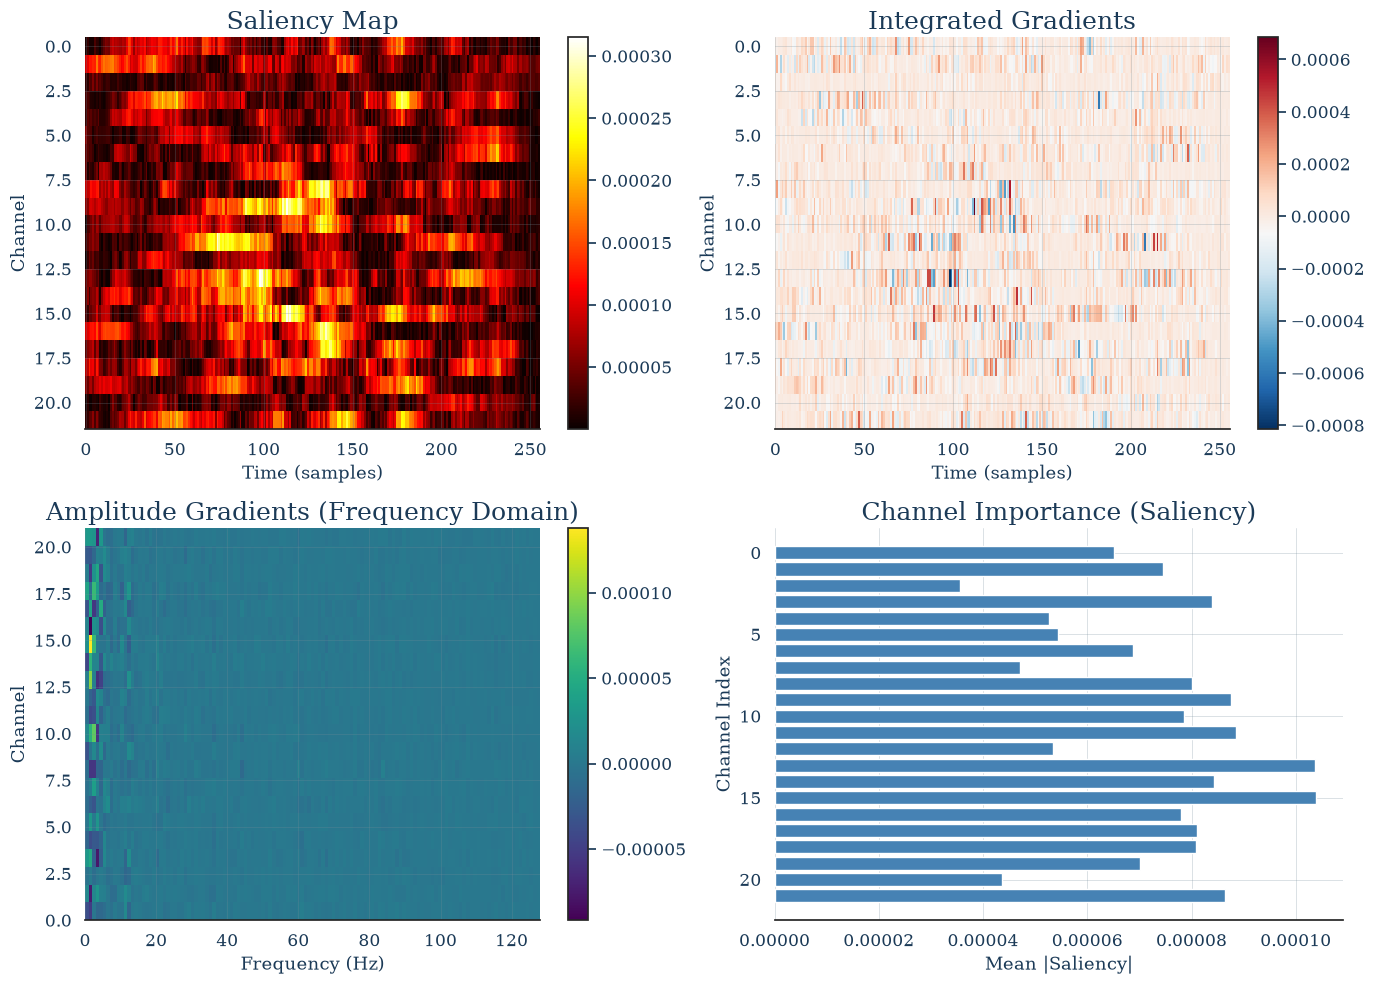
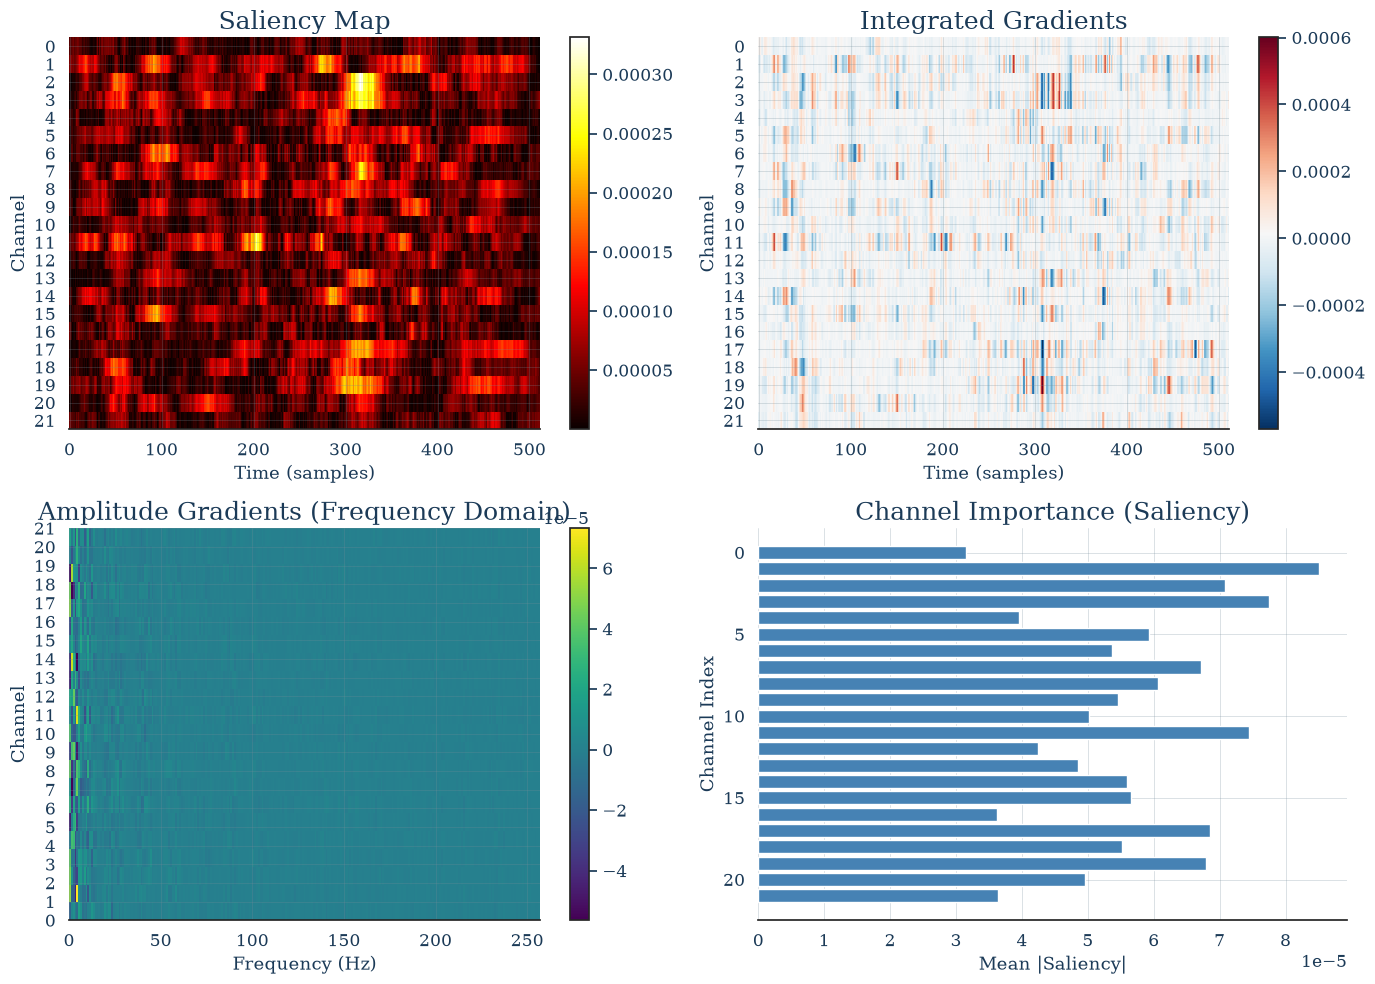
refactor(visualization): 重构训练曲线和梯度可视化代码
1. 替换手动加载历史数据为skorch History对象，简化数据提取
2. 更新可视化逻辑使用真实训练数据而非模拟数据
3. 调整绘图参数和保存配置，优化输出效果
4. 补全梯度可视化的完整数据集预处理和模型加载流程
5. 修复部分可视化细节问题，完善注释说明

diff --git a/src/braindecode_learning/05_visualization.py b/src/braindecode_learning/05_visualization.py
@@ -41,21 +41,21 @@ def tutorial_training_curves():
     print("教程 5.1: 训练曲线可视化")
     print("=" * 60)
 
-    np.random.seed(42)
-    n_epochs = 30
-    train_loss = 2.0 * np.exp(-np.linspace(0, 3, n_epochs)) + 0.05 + np.random.randn(n_epochs) * 0.01
-    val_loss = 2.2 * np.exp(-np.linspace(0, 2.5, n_epochs)) + 0.15 + np.random.randn(n_epochs) * 0.02
-    val_loss = np.minimum.accumulate(val_loss) # 累计最小值, 用于可视化最佳验证损失
-    train_acc = np.clip(1 - 0.9 * np.exp(-np.linspace(0, 2.5, n_epochs)) + np.random.randn(n_epochs) * 0.005, 0, 1)
-    val_acc = np.clip(1 - 1.0 * np.exp(-np.linspace(0, 2, n_epochs)) - 0.02 + np.random.randn(n_epochs) * 0.01, 0, 1)
-    val_acc = np.maximum.accumulate(val_acc)
+    import json
+    from skorch.history import History
+    with open("models/history.json", "r") as f:
+        history = History(json.load(f))
+
+    epochs = history[:, "epoch"]
+    train_loss = history[:, "train_loss"]
+    val_loss = history[:, "valid_loss"]
+    val_acc = history[:, "valid_acc"]
 
     fig, (ax1, ax2) = plt.subplots(1, 2, figsize=(12, 4))
-    epochs = range(1, n_epochs + 1) # 1～n_epochs
 
-    ax1.plot(epochs, train_loss, "b-", label="Training Loss", linewidth=2)
-    ax1.plot(epochs, val_loss, "r-", label="Validation Loss", linewidth=2)
-    best_epoch = np.argmin(val_loss) + 1
+    ax1.plot(epochs, train_loss, "b-", label="Training Loss", linewidth=1)
+    ax1.plot(epochs, val_loss, "r-", label="Validation Loss", linewidth=1)
+    best_epoch = [i + 1 for i, h in enumerate(history) if h.get("valid_loss_best", False)][-1]
     ax1.axvline(x=best_epoch, color="g", linestyle="--", alpha=0.7, label=f"Best Epoch ({best_epoch})")
     ax1.set_xlabel("Epoch")
     ax1.set_ylabel("Loss")
@@ -63,18 +63,21 @@ def tutorial_training_curves():
     ax1.legend()
     ax1.grid(True, alpha=0.3)
 
-    ax2.plot(epochs, train_acc, "b-", label="Training Accuracy", linewidth=2)
-    ax2.plot(epochs, val_acc, "r-", label="Validation Accuracy", linewidth=2)
-    best_epoch_acc = np.argmax(val_acc) + 1
+    ax2.plot(epochs, val_acc, "r-", label="Validation Accuracy", linewidth=1)
+    best_epoch_acc = [i + 1 for i, h in enumerate(history) if h.get("valid_acc_best", False)][-1]
     ax2.axvline(x=best_epoch_acc, color="g", linestyle="--", alpha=0.7, label=f"Best Epoch ({best_epoch_acc})")
     ax2.set_xlabel("Epoch")
     ax2.set_ylabel("Accuracy")
-    ax2.set_title("Training and Validation Accuracy")
+    ax2.set_title("Validation Accuracy")
     ax2.legend()
     ax2.grid(True, alpha=0.3)
 
     plt.tight_layout()
-    plt.savefig("viz_pic/training_curves.png", dpi=100, bbox_inches="tight")
+    plt.savefig(
+        "viz_pic/training_curves.png",  # 保存路径和文件名: 将图像保存到 viz_pic 目录下的 training_curves.png 文件
+        dpi=150,                         # 分辨率: 设置图像的分辨率为每英寸150像素, 数值越高图像越清晰
+        bbox_inches="tight"              # 紧凑裁剪: 自动裁剪图像四周的空白边距, 使保存的图像更加紧凑
+    )
     print(f"  训练曲线已保存: viz_pic/training_curves.png")
     print(f"  最佳验证损失: Epoch {best_epoch}, Loss = {val_loss[best_epoch-1]:.4f}")
     print(f"  最佳验证准确率: Epoch {best_epoch_acc}, Acc = {val_acc[best_epoch_acc-1]:.4f}")
@@ -85,30 +88,125 @@ def tutorial_training_curves():
 # 2. 归因/梯度可视化
 # ============================================================
 
+import numpy as np
+import torch
+from torch.utils.data import DataLoader
+from braindecode.datasets import MOABBDataset
+from braindecode.preprocessing import (
+    preprocess,
+    Filter,
+    Resample,
+    PickTypes,
+    Rescale,
+    Preprocessor,
+    exponential_moving_standardize,
+    create_windows_from_events,
+)
+from braindecode.models import EEGNet, ShallowFBCSPNet
+from braindecode import EEGClassifier, EEGRegressor
+from skorch.callbacks import EpochScoring, Checkpoint
+from skorch.helper import predefined_split
+from sklearn.metrics import cohen_kappa_score
+
+from sklearn.metrics import (
+    accuracy_score,           # 准确率: 正确预测数 / 总样本数
+    balanced_accuracy_score,  # 平衡准确率: 各类别准确率的平均值, 处理类别不平衡
+    precision_score,          # 精确率: 预测为正的样本中实际为正的比例
+    recall_score,             # 召回率: 实际为正的样本中被正确预测为正的比例
+    f1_score,                 # F1分数: 精确率和召回率的调和平均, 综合评估指标
+    confusion_matrix,         # 混淆矩阵: 展示各类别预测与真实标签的对应关系
+    classification_report,    # 分类报告: 生成包含精确率/召回率/F1的详细文本报告
+)
+
 def tutorial_gradient_visualization():
     """使用 braindecode.visualization API 进行梯度/归因可视化"""
     print("\n" + "=" * 60)
     print("教程 5.2: 梯度/归因可视化")
     print("=" * 60)
 
-    n_channels, n_times, n_classes = 22, 256, 4
-    model = EEGNet(n_chans=n_channels, n_outputs=n_classes, n_times=n_times)
+    dataset = MOABBDataset(dataset_name="BNCI2014_001")
+    # 根据session类别划分train、test
+    splits = dataset.split(by="session")
+    train_dataset = splits["0train"]
+    test_dataset = splits["1test"]
+    # 预处理
+    preprocessors = [
+        PickTypes(eeg=True, verbose=False),
+        Filter(l_freq=4, h_freq=40.0, verbose=False),
+        Rescale(scalings=1e6, verbose=False),
+        Resample(sfreq=128, verbose=False),
+        Preprocessor(exponential_moving_standardize),
+    ]
+    train_dataset = preprocess(train_dataset, preprocessors)
+    test_dataset = preprocess(test_dataset, preprocessors)
+    train_windows = create_windows_from_events(
+        train_dataset,
+        trial_start_offset_samples=0,
+        trial_stop_offset_samples=0,
+        window_size_samples=512,
+        window_stride_samples=512,
+        preload=True,
+    )
+    test_windows = create_windows_from_events(
+        test_dataset,
+        trial_start_offset_samples=0,
+        trial_stop_offset_samples=0,
+        window_size_samples=512,
+        window_stride_samples=512,
+        preload=True,
+    )
+
+    # 定义通道数和时间点数
+    n_channels = 22
+    n_times = 512
+
+    model = EEGNet(
+        n_chans=22,
+        n_outputs=4,
+        n_times=512,               # ← 128Hz × 4s = 512（原值256仅对应2s）
+        sfreq=128,                 # ✅ 无需修改
+        F1=8,                      # ← 显式指定
+        D=2,                       # ← 显式指定
+        F2=16,                     # ← F1×D = 8×2
+        kernel_length=64,          # ← 0.5s @ 128Hz
+        depthwise_kernel_length=16,# ← 深度卷积核长度
+        pool1_kernel_size=4,       # ← 平均池化
+        pool2_kernel_size=8,       # ← 平均池化
+        drop_prob=0.5,             # ← 关键！不是默认的0.25
+        norm_rate=0.25,            # ← MaxNorm约束
+        conv_spatial_max_norm=1,   # ← 空间卷积MaxNorm
+        final_conv_length='auto',  # ← 自动调整输出长度
+    )
     model.eval()
 
-    x_demo = torch.randn(1, n_channels, n_times)
-    target = torch.tensor([0])
+    # 使用 MPS 加速 (Apple Silicon)
+    device = torch.device("mps" if torch.backends.mps.is_available() else "cpu")
+    model = model.to(device)
+
+    # 使用一条真实记录 (x_demo: np.ndarray, target: int)
+    x_demo, target, _ = train_windows[0]
+    x_demo = torch.tensor(x_demo).unsqueeze(0).to(device)  # numpy -> tensor, 添加batch维度, 迁移到MPS
+    target = torch.tensor([target]).to(device)  # int -> tensor, 迁移到MPS
 
     print("\n  1. 显著性图 (saliency)...")
-    sal_map = saliency(model, x_demo, target)
-    sal_np = sal_map.squeeze().detach().numpy()
+    # 每次调用 saliency 都会执行 恰好一次前向传播 + 一次反向传播 。
+    # 它不接受外部已计算好的模型输出，无法跳过前向传播。
+    # 归因分析需要反向传播来计算 输出对输入的梯度dy/dx ，而不是损失对权重的梯度dL/dw。
+    # 分析输入哪些部分重要，即哪些通道对模型的输出有显著的影响。
+    # 通过计算输入的梯度，我们可以了解模型在不同时间点对不同通道的敏感度。
+    # 例如，如果一个通道的梯度值较大，说明该通道对模型的输出有显著的影响。
+    # 可以根据梯度值来可视化输入的通道重要性，从而帮助我们理解模型的决策过程。
+    sal_map = saliency(model, x_demo, target)  # shape: (1, 22, 512)
+    sal_np = sal_map.squeeze().cpu().numpy()  # shape: (22, 512)
 
     print("  2. 积分梯度 (integrated_gradients)...")
     ig_map = integrated_gradients(model, x_demo, target)
-    ig_np = ig_map.squeeze().detach().numpy()
+    ig_np = ig_map.squeeze().cpu().numpy()
 
     print("  3. 频域幅度梯度 (amplitude_gradients)...")
-    amp_grads = amplitude_gradients(model, x_demo.detach().numpy())
-    amp_grad_np = amp_grads[0, 0]
+    amp_grads = amplitude_gradients(model, x_demo.cpu().numpy()) # shape: (4, 1, 22, 257)
+    print(amp_grads.shape)
+    amp_grad_np = amp_grads[0, 0] # shape: (22, 257)
 
     fig, axes = plt.subplots(2, 2, figsize=(14, 10))
 
@@ -116,19 +214,26 @@ def tutorial_gradient_visualization():
     axes[0, 0].set_xlabel("Time (samples)")
     axes[0, 0].set_ylabel("Channel")
     axes[0, 0].set_title("Saliency Map")
+    axes[0, 0].set_yticks(range(n_channels))
     plt.colorbar(im1, ax=axes[0, 0])
 
     im2 = axes[0, 1].imshow(ig_np, aspect="auto", cmap="RdBu_r", interpolation="nearest")
     axes[0, 1].set_xlabel("Time (samples)")
     axes[0, 1].set_ylabel("Channel")
     axes[0, 1].set_title("Integrated Gradients")
+    axes[0, 1].set_yticks(range(n_channels))
     plt.colorbar(im2, ax=axes[0, 1])
 
+    # extent=[0, 128, 0, n_channels - 1] — 坐标轴范围
+    # - x 轴：0 → 128 Hz（频率）
+    # - y 轴：0 → 21（通道索引）
+    # origin="lower" — 原点在左下角，y 轴向上增长
     im3 = axes[1, 0].imshow(amp_grad_np, aspect="auto", cmap="viridis",
-                             interpolation="nearest", extent=[0, 128, 0, n_channels - 1], origin="lower")
+                             interpolation="nearest", extent=[0, amp_grad_np.shape[1], 0, amp_grad_np.shape[0] - 1], origin="lower")
     axes[1, 0].set_xlabel("Frequency (Hz)")
     axes[1, 0].set_ylabel("Channel")
     axes[1, 0].set_title("Amplitude Gradients (Frequency Domain)")
+    axes[1, 0].set_yticks(range(n_channels))
     plt.colorbar(im3, ax=axes[1, 0])
 
     channel_importance = np.abs(sal_np).mean(axis=1)
@@ -136,7 +241,7 @@ def tutorial_gradient_visualization():
     axes[1, 1].set_xlabel("Mean |Saliency|")
     axes[1, 1].set_ylabel("Channel Index")
     axes[1, 1].set_title("Channel Importance (Saliency)")
-    axes[1, 1].invert_yaxis()
+    axes[1, 1].invert_yaxis() # 让0在顶部
     axes[1, 1].grid(True, alpha=0.3)
 
     plt.tight_layout()
@@ -365,8 +470,8 @@ def tutorial_combined_visualization():
 
 
 if __name__ == "__main__":
-    tutorial_training_curves()         # 训练曲线可视化
-    # tutorial_gradient_visualization()  # 梯度/归因可视化 (saliency, integrated_gradients, amplitude_gradients)
+    # tutorial_training_curves()        # 训练曲线可视化
+    tutorial_gradient_visualization()  # 梯度/归因可视化 (saliency, integrated_gradients, amplitude_gradients)
     # tutorial_confusion_matrix()        # 混淆矩阵可视化 (braindecode.visualization.plot_confusion_matrix)
     # tutorial_eeg_signal_plot()         # EEG 信号可视化
     # tutorial_combined_visualization()  # 综合可视化

diff --git a/plot_history.py b/plot_history.py
@@ -1,21 +1,22 @@
 import json
 import matplotlib.pyplot as plt
 import numpy as np
+from skorch.history import History
 
 def plot_training_history(history_path="models/history.json"):
     """读取 history.json 并绘制训练曲线"""
     
     # 1. 读取历史数据
     with open(history_path, 'r') as f:
-        history = json.load(f)
+        history = History(json.load(f))
     
     # 2. 提取指标
-    epochs = [h['epoch'] for h in history]  # 从1开始
-    train_loss = [h['train_loss'] for h in history]
-    valid_loss = [h['valid_loss'] for h in history]
-    train_acc = [h['train_acc'] for h in history]
-    valid_acc = [h['valid_acc'] for h in history]
-    kappa = [h['kappa'] for h in history]
+    epochs = history[:, "epoch"]
+    train_loss = history[:, "train_loss"]
+    valid_loss = history[:, "valid_loss"]
+    train_acc = history[:, "train_acc"]
+    valid_acc = history[:, "valid_acc"]
+    kappa = history[:, "kappa"]
     
     # 3. 创建子图
     fig, axes = plt.subplots(1, 3, figsize=(15, 5))
